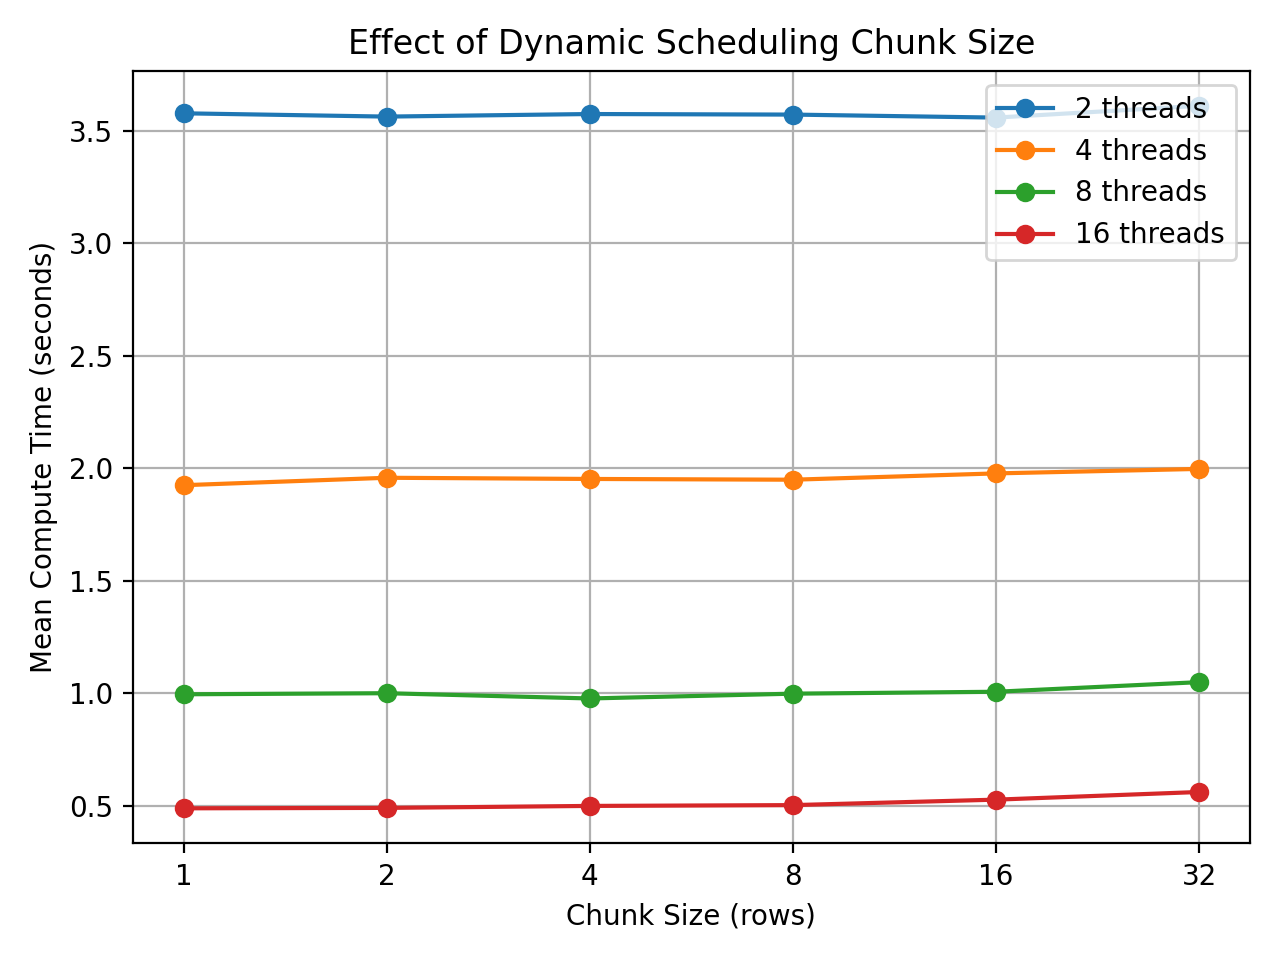
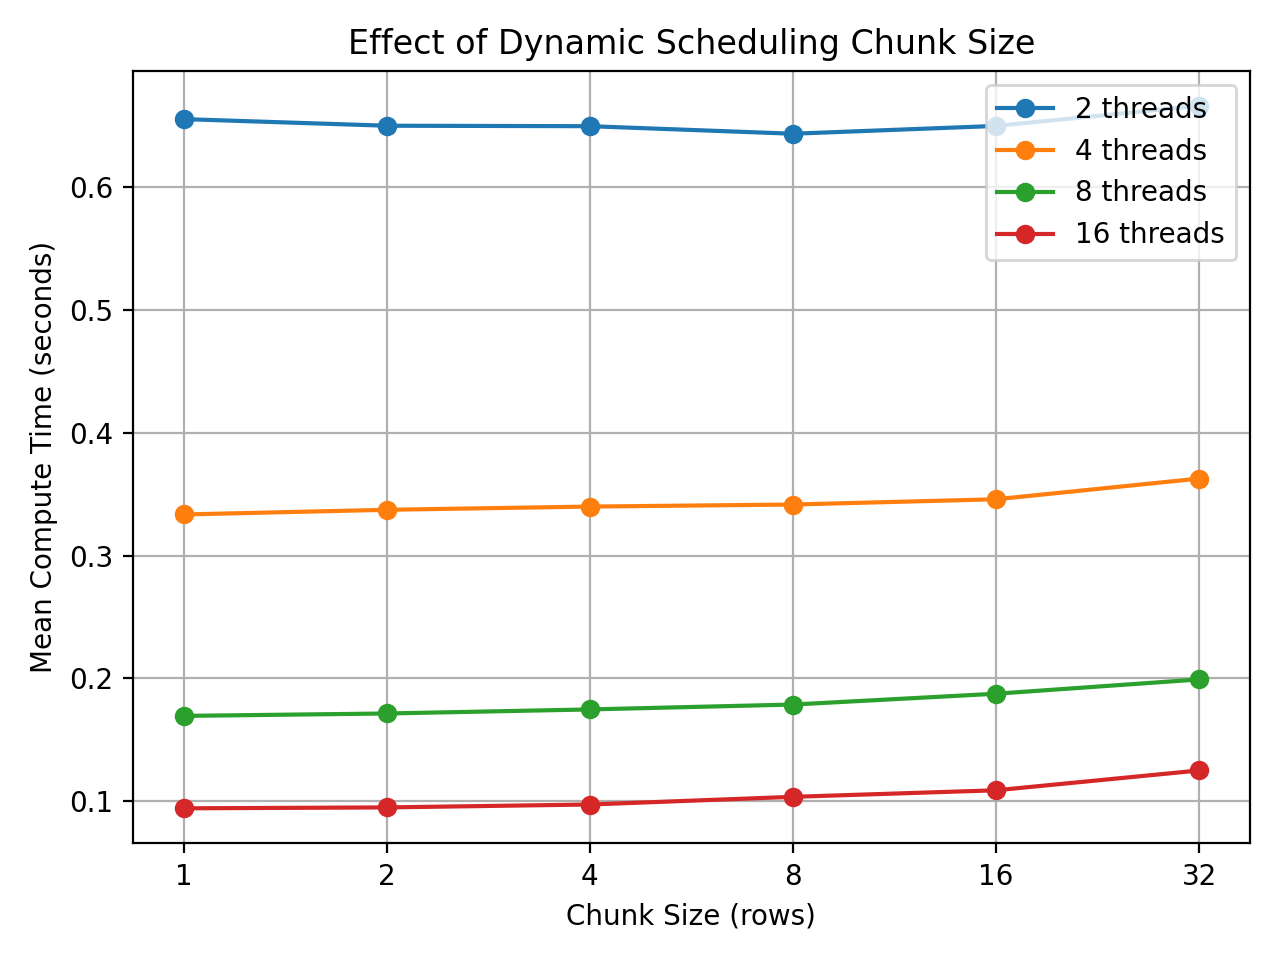
Add analytical Mandelbrot interior rejection

diff --git a/src/mandelbrot_core.c b/src/mandelbrot_core.c
@@ -554,11 +554,49 @@ void mandelbrot_image_free(MandelbrotImage *img) {
     img->cdf = NULL;
 }
 
+static inline int mandelbrot_known_interior(double cr, double ci) {
+    /*
+     * Main cardioid test.
+     *
+     * q = (x - 1/4)^2 + y^2
+     * Point is inside the cardioid if:
+     *
+     * q * (q + (x - 1/4)) <= 1/4 * y^2
+     */
+    double x = cr - 0.25;
+    double y2 = ci * ci;
+    double q = x * x + y2;
+
+    if (q * (q + x) <= 0.25 * y2) {
+        return 1;
+    }
+
+    /*
+     * Period-2 bulb.
+     *
+     * Center = (-1, 0)
+     * Radius = 1/4
+     */
+    double bulb_x = cr + 1.0;
+
+    if (bulb_x * bulb_x + y2 <= 0.0625) {
+        return 1;
+    }
+
+    return 0;
+}
 
 MandelbrotPointResult mandelbrot_iterations(double cr, double ci, int max_iter) {
+    MandelbrotPointResult result;
+
+    if (mandelbrot_known_interior(cr, ci)) {
+        result.iterations = max_iter;
+        result.smooth_value = 0.0;
+        return result;
+    }
+
 	double zr = 0.0;
 	double zi = 0.0;
-
 	int iter = 0;
 
 	while (zr * zr + zi * zi <= 4.0 && iter < max_iter) {
@@ -568,8 +606,6 @@ MandelbrotPointResult mandelbrot_iterations(double cr, double ci, int max_iter) 
 
 		iter++;
 	}
-
-	MandelbrotPointResult result;
 
     result.iterations = iter;
 
@@ -853,3 +889,5 @@ int mandelbrot_compute_pthreads(const MandelbrotConfig *cfg,
 
     return status;
 }
+
+

diff --git a/src/main.c b/src/main.c
@@ -43,18 +43,16 @@ int main(int argc, char *argv[]) {
         (end.tv_sec - start.tv_sec) +
         (end.tv_nsec - start.tv_nsec) / 1e9;
 
-	if (mandelbrot_build_colour_cdf(&cfg, &img) != 0) {
-        fprintf(stderr, "Error: failed to build colour CDF\n");
-        mandelbrot_image_free(&img);
-        return 1;
-    }
-
 	if (!cfg.no_output) {
-        mandelbrot_build_colour_cdf(&cfg, &img);
+        if (mandelbrot_build_colour_cdf(&cfg, &img) != 0) {
+            fprintf(stderr, "Error: failed to build colour CDF\n");
+            mandelbrot_image_free(&img);
+            return 1;
+        }
 
         if (mandelbrot_write_png(cfg.output_file,
-                         &cfg,
-                         &img) != 0) {
+                                 &cfg,
+                                 &img) != 0) {
             fprintf(stderr, "Failed to write PNG output\n");
             mandelbrot_image_free(&img);
             return 1;

diff --git a/include/mandelbrot.h b/include/mandelbrot.h
@@ -67,9 +67,10 @@ typedef struct {
  *      Continuous escape value for each pixel, used for smooth colouring.
  *      Size: width * height
  *
- * pixels:
- *      Final normalised pixel values after colouring.
- *      Size: width * height
+ * cdf:
+ *      Cumulative distribution of escaped iteration counts,
+ *      used for histogram-based colouring.
+ *      Size: max_iter
  */ 
 typedef struct {
 	int *iterations;
